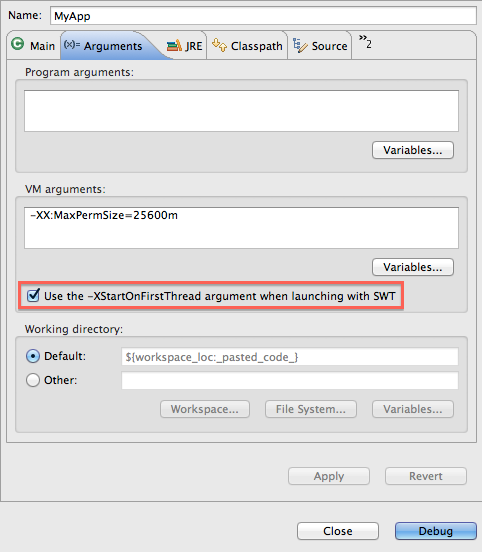
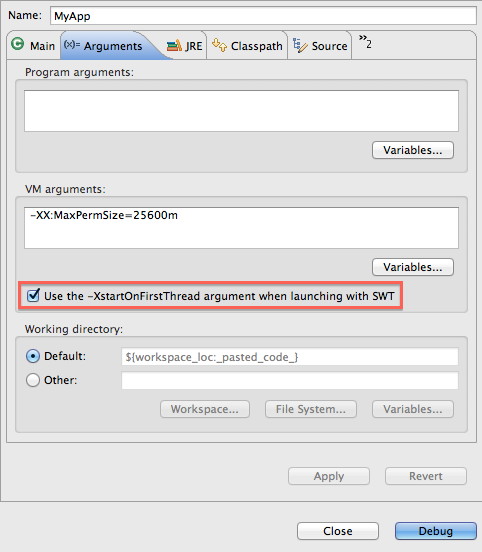
Bug 396325: -XStartOnFirstThread is misspelled on the arguments tab

Changed region(s): [[0.2178, 0.5236, 0.8402, 0.5543]]

diff --git a/4.3/M3/eclipse-news-M3.html b/4.3/M3/eclipse-news-M3.html
@@ -22,12 +22,12 @@
     <td colspan="2" class="section" id="Platform">Platform</td>
   </tr>
   <tr id="x-start-on-first-thread">
-    <td class="title">Option to omit -XStartOnFirstThread</td>
+    <td class="title">Option to omit -XstartOnFirstThread</td>
     <td class="content">
-      If you are launching an SWT program on Mac OS X, you can now selectively add / remove the <code>-XStartOnFirstThread</code> VM argument
+      If you are launching an SWT program on Mac OS X, you can now selectively add / remove the <code>-XstartOnFirstThread</code> VM argument
       in the event your VM does not support it. This option can be configured per launch configuration and is available on the standard Arguments
       tab for Java configurations (Java Application, Eclipse, etc.).
-      <p><img src="images/x-start-on-first-thread.png" alt="New VM preference allowing users to selectively add the -XStartOnFirstThread argument per-configuration"/></p>
+      <p><img src="images/x-start-on-first-thread.png" alt="New VM preference allowing users to selectively add the -XstartOnFirstThread argument per-configuration"/></p>
     </td>
   </tr>
   <tr id="only-include-exported-entries">
